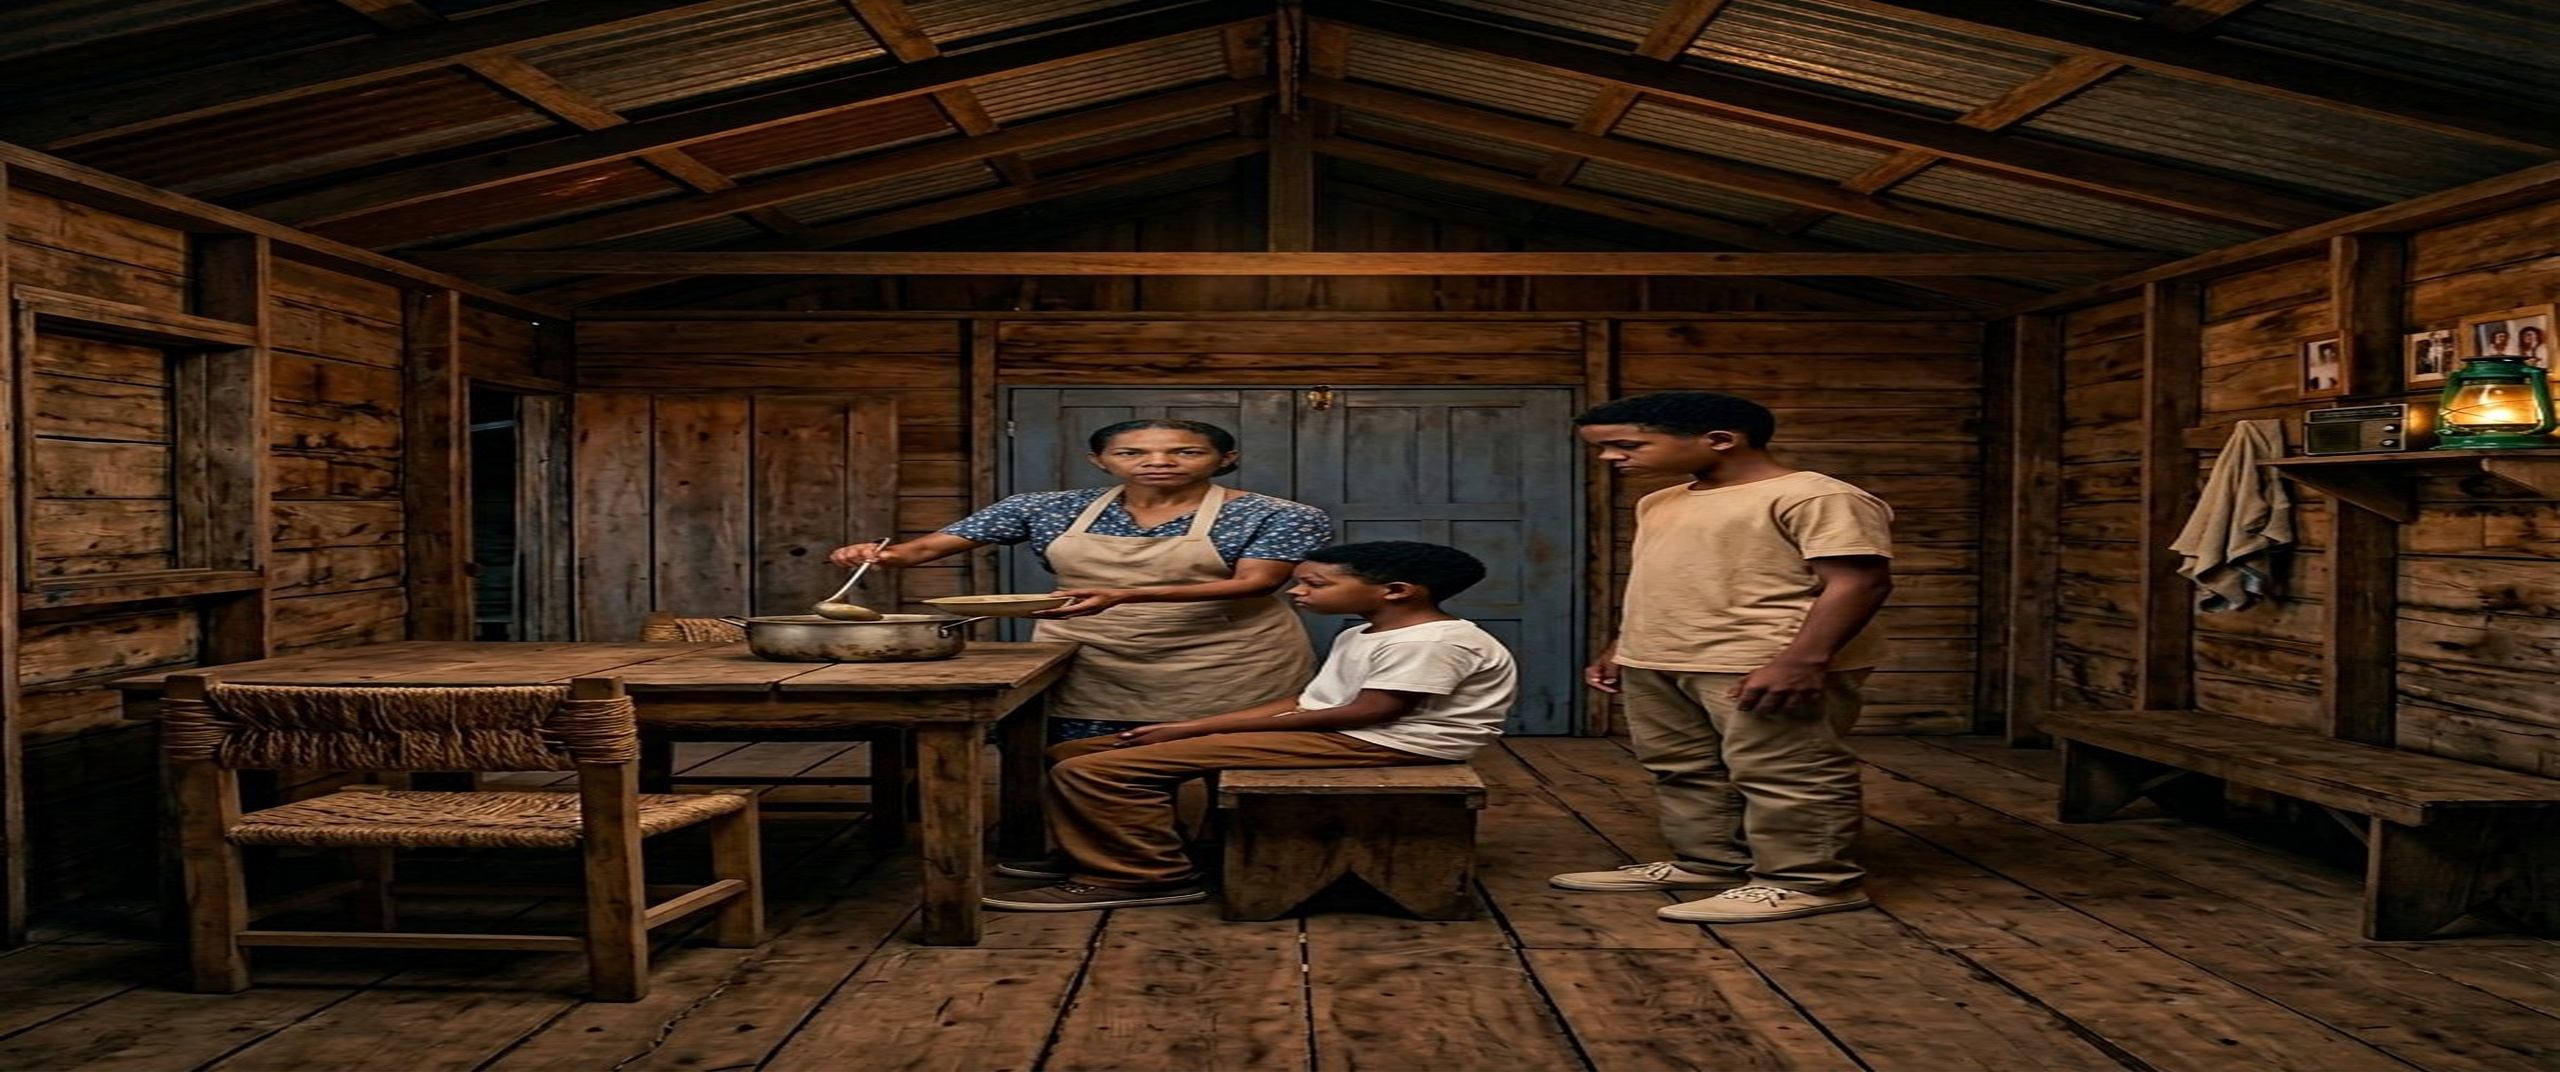
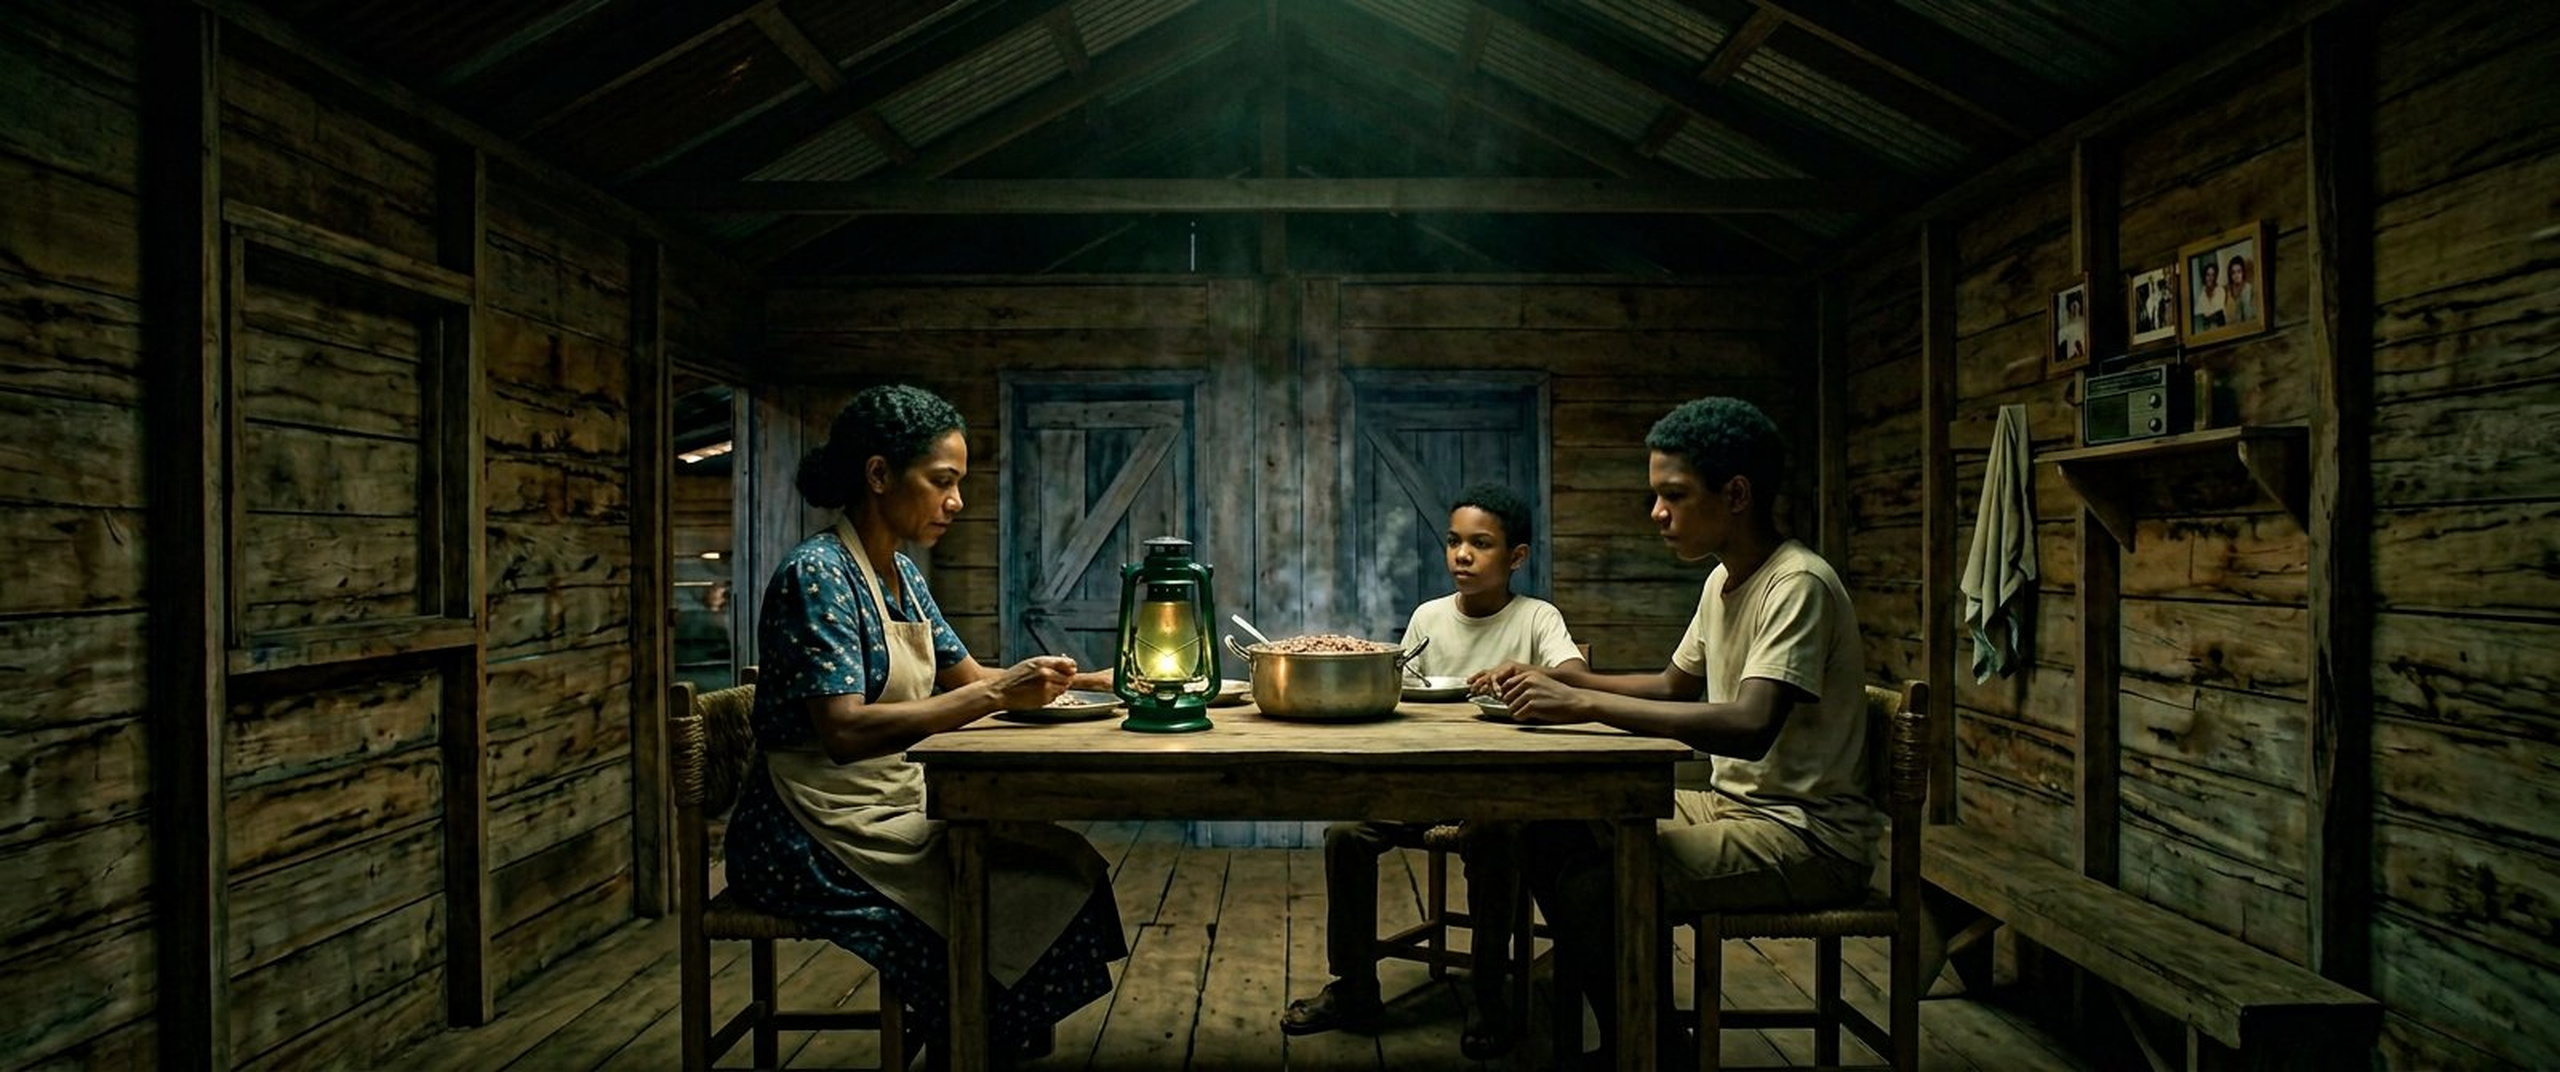
[WILSON][JUANA][MARIO] S06 P06 FINAL LOTE 9 V2 - PARTE TOTAL AL DIRECTOR: hermano 15-16 sandalias + ponchera central + noche queroseno - 2560x1072 - CIERRE 6/6

diff --git a/los_caminos_de_la_vida/01_FOTOGRAFIAS_POR_SECUENCIA/SECUENCIA_06_LA_COMIDA/SECUENCIA_06_PLANOS.md b/los_caminos_de_la_vida/01_FOTOGRAFIAS_POR_SECUENCIA/SECUENCIA_06_LA_COMIDA/SECUENCIA_06_PLANOS.md
@@ -1,47 +1,48 @@
-# SECUENCIA 06 — LA COMIDA · NOCHE EN CASA · REPARACIONES LOTE 3 - BUCLE CONTINUO
-**Director: LEVI - Veredicto LOTE 3: P01/P04/P05 REVISAR, P06 REHACER + 05_SET_CASA_BLOQUEADO + 08_ORDEN_PERMANENTE_DE_BUCLE**
-**Fotógrafos:** WILSON (master 10 aprobado) + JUANA (P01/P04/P06) + YUDERKA (P05) + MARIO (P06 apoyo) - Reparaciones 13-sep
-**Fecha:** 2026-09-13 - Bucle sin parar
+# SECUENCIA 06 — LA COMIDA · NOCHE EN CASA · REPARACIONES LOTE 3 + LOTE 9 FINAL - BUCLE CONTINUO
+**Director: LEVI - Veredicto LOTE 3: P01/P04/P05 REVISAR, P06 REHACER + Veredicto LOTE 9: P06 REVISAR final + 05_SET_CASA_BLOQUEADO + 08_ORDEN_PERMANENTE_DE_BUCLE**
+**Fotógrafos:** WILSON (master 10 aprobado) + JUANA (P01/P04/P06) + YUDERKA (P05) + MARIO (P06 apoyo) - Reparaciones 13-sep + FINAL 14-sep
+**Fecha:** 2026-09-13/14 - Bucle sin parar - CIERRE 6/6
 
-**Set:** sala/comedor master 07 exacto: mesa gruesa izquierda con 2 bancos trenzado, banco bajo derecha, estante derecha con radio antiguo + farol VERDE queroseno + fotos enmarcadas + toalla colgada, puerta central doble azul-gris + vanos oscuros dormitorios (pared fondo EXACTA de P02), ventana rústica izquierda, piso tablas gastadas, techo zinc vigas. Añadidos: ponchera metal centro, platos metal, velador lámpara queroseno verde DOMINANDO encuadre. Luz: SOLO queroseno verde, noche profunda. Vestuario fijo S06: madre vestido azul flores + delantal + moño bajo (no afro) · niño blanco + pantalón LARGO marrón · hermano beige + caqui SIN marca.
+**Set:** sala/comedor master 07 exacto: mesa gruesa izquierda con 2 bancos trenzado, banco bajo derecha, estante derecha con radio antiguo + farol VERDE queroseno + fotos enmarcadas + toalla colgada, puerta central doble azul-gris + vanos oscuros dormitorios (pared fondo EXACTA de P02), ventana rústica izquierda, piso tablas gastadas, techo zinc vigas. Añadidos: ponchera metal centro, platos metal, velador lámpara queroseno verde DOMINANDO encuadre. Luz: SOLO queroseno verde, noche profunda. Vestuario fijo S06: madre vestido azul flores + delantal + moño bajo (no afro) · niño blanco + pantalón LARGO marrón + sandalias · hermano 15-16 beige + caqui SIN marca + sandalias.
 
-## Reparaciones ejecutadas - VEREDICTO LOTE 3
+## Reparaciones ejecutadas - VEREDICTO LOTE 3 + LOTE 9 FINAL
 
-1. **S06_P01_MESA_GENERAL_24MM.jpg** - JUANA/WILSON - REVISAR -> CORREGIDO 13-sep - General 24mm T4.5
-   - Orden Director: pared fondo no coincide P02 (dos puertas azules vs puerta tablas + vano oscuro + puerta azul). Rehacer clonando EXACTAMENTE pared fondo P02.
-   - Corrección: pared fondo ahora idéntica a P02 aprobada: izq a der vano abierto cocina con luz -> puerta tablas azul-gris con Z -> vano oscuro dorm hijos -> puerta azul-gris con Z. Resto set = P02 sin cambios: mesa izq 2 sillas guano, estante der radio+farol VERDE+fotos+toalla+banco bajo, farol verde sobre mesa DOMINANDO, ponchera metal ancha humeante centro, platos metal. Vestuario ley S06, nadie mira cámara, 2560x1072
+1. **S06_P01_MESA_GENERAL_24MM.jpg** - JUANA/WILSON - REVISAR -> CORREGIDO 13-sep -> ✅ APROBADA LOTE 9 - General 24mm T4.5
+   - Orden Director LOTE 3: pared fondo no coincide P02. Rehacer clonando EXACTAMENTE pared fondo P02.
+   - Corrección: pared fondo idéntica a P02 aprobada: vano cocina + puerta Z azul-gris + vano oscuro + puerta Z. En FINAL.
 
-2. **S06_P02_MADRE_SIRVIENDO_50MM.jpg** - JUANA - ✅ APROBADA ya en FINAL - No se toca
+2. **S06_P02_MADRE_SIRVIENDO_50MM.jpg** - JUANA - ✅ APROBADA ya en FINAL
 
-3. **S06_P03_NINO_COMIENDO_85MM.jpg** - JUANA - ✅ APROBADA ya en FINAL - No se toca
+3. **S06_P03_NINO_COMIENDO_85MM.jpg** - JUANA - ✅ APROBADA ya en FINAL
 
-4. **S06_P04_HERMANO_COMIENDO_85MM.jpg** - JUANA - REVISAR -> CORREGIDO 13-sep - 85mm T2.0
-   - Orden: farol estante DORADO, en escena es VERDE. Regenerar con farol verde.
-   - Corrección: farol estante ahora VERDE (mismo verde que lámpara mesa), resto idéntico: hermano sin marca, beige+caqui, sin mirar cámara, 5 dedos, fondo tablas
+4. **S06_P04_HERMANO_COMIENDO_85MM.jpg** - JUANA - REVISAR -> CORREGIDO 13-sep -> ✅ APROBADA LOTE 9 - 85mm T2.0
+   - Orden: farol dorado vs verde. Corregido farol VERDE. En FINAL.
 
-5. **S06_P05_MANOS_CUCHARA_MACRO_100MM.jpg** - YUDERKA - REVISAR -> CORREGIDO 13-sep - Macro 100mm T2.8
-   - Orden: manos persona MAYOR, madre Tiempo A 35-40 manos fuertes pero jóvenes. Regenerar con manos correctas + manga azul flores.
-   - Corrección: manos ahora joven trabajadora 35-40 (venas marcadas pero piel no arrugada anciana), manga azul de flores pequeñas visible, mano niño pequeña 5 dedos, ponchera metal fondo, farol verde glow, mesa madera gruesa, 5 dedos
+5. **S06_P05_MANOS_CUCHARA_MACRO_100MM.jpg** - YUDERKA - REVISAR -> CORREGIDO 13-sep -> ✅ APROBADA LOTE 9 - Macro 100mm
+   - Orden: manos mayor vs joven 35-40 + manga azul flores. Corregido manos joven trabajadora. En FINAL.
 
-6. **S06_P06_PLANO_TRES_MESA_50MM.jpg** - MARIO/JUANA - REHACER -> CORREGIDO 13-sep - 50mm T2.8
-   - Orden Director: salto habitación - paredes encaladas lisas (sala es tablas madera oscura master 07), madre AFRO suelto (debe moño bajo), olla BARRO (es METAL), faroles pared que no existen.
-   - Corrección: REHACER completo clonando sala P02: paredes tablas madera oscura, madre moño bajo negro rizado, ponchera METAL (no barro), sin faroles pared, mesa izq 2 sillas trenzado + banco der, estante der radio+farol verde+fotos+toalla, puerta doble azul-gris + 2 vanos, ventana izq, piso tablas, farol verde mesa dominando, nadie mira cámara, 5 dedos, calor lámpara
+6. **S06_P06_PLANO_TRES_MESA_50MM.jpg** - MARIO/JUANA/WILSON - REHACER LOTE 3 -> CORREGIDO 13-sep -> 🔍 REVISAR LOTE 9 -> CORREGIDO FINAL 14-sep - 50mm T2.8
+   - Orden Director LOTE 3: paredes encaladas vs tablas oscuras master 07, madre afro vs moño bajo, olla barro vs metal, faroles pared inexistentes.
+   - Corrección 13-sep: sala tablas oscuras, moño bajo, olla metal, sin faroles pared.
+   - Orden Director LOTE 9: Mucho mejor pero faltan 3 detalles: (1) hermano se ve ~12 y zapatillas claras -> debe 15-16 y sandalias; (2) falta PONCHERA central mesa (olla en pie raro -> llevar a mesa); (3) luz parece de día -> es NOCHE solo queroseno.
+   - Corrección FINAL 14-sep WILSON: hermano ahora 15-16 alto hombros anchos adolescente, camisa beige + caqui + SANDALIAS marrones (no zapatillas), SIN marca, 5 dedos; ponchera METAL grande humeante al CENTRO de la mesa (arroz habichuelas) con platos metal alrededor, sin pie de madera raro; luz SOLO queroseno verde noche profunda sin luz día, farol verde mesa dominando, sombras cálidas; madre moño bajo + azul flores + delantal; niño blanco + pantalón largo marrón + sandalias marca ceja IZQUIERDA sutil; paredes tablas oscuras master 07 exacto, estante der radio+farol verde+fotos+toalla+banco bajo, puerta doble azul-gris + 2 vanos, ventana izq, piso tablas, techo zinc vigas. Nadie mira cámara, 2560x1072 2.39:1 ARRI Alexa 35 + Cooke, charters clonados.
 
 ## Master 10
-- **10_INTERIOR_DORMITORIO_HIJOS_MASTER_4K.jpg** - WILSON - ✅ APROBADO Y BLOQUEADO 3840x1608 - No se toca
+- **10_INTERIOR_DORMITORIO_HIJOS_MASTER_4K.jpg** - WILSON - ✅ APROBADO Y BLOQUEADO 3840x1608
 
-## Cumplimiento 7 controles + set bloqueado 05
+## Cumplimiento 7 controles + set bloqueado 05 - FINAL
 
-1. Personajes: Madre Tiempo A 35-40 misma cara charter, manos jóvenes trabajadoras (corregido), Niño ceja IZQUIERDA marca (derecha espectador frontal), Hermano sin marca, 5 dedos
-2. Vestuario: Tabla S06 idéntico 6 planos, madre moño bajo (corregido P06), azul flores + delantal
-3. Continuidad: Master 07 clonado exacto - pared fondo P02 exacta (corregido P01), farol verde (corregido P04), ponchera metal (corregido P06), tablas oscuras (corregido P06), sin faroles pared inexistentes
-4. Iluminación: Solo queroseno verde, sin electricidad, sombras coinciden P02, skin tones dominicanos
-5. Dirección actor: Nadie mira cámara, miradas tarea/objeto/otro personaje
-6. Cámara: ARRI Alexa 35 + Cooke, lentes 24/50/85/100 macro, 2.39:1 2560x1072, look cine, sin texto/marcas
-7. Lógica: Cena arroz habichuelas ponchera compartida, día a día real 80s/90s
+1. Personajes: Madre Tiempo A 35-40 misma cara charter MADRE_TIEMPO_A_RECUERDOS_CHARTER_OFICIAL_6K, manos jóvenes trabajadoras, Niño ceja IZQUIERDA marca derecha espectador frontal charter PROTAGONISTA_NINO_CHARTER_OFICIAL_6K, Hermano 15-16 SIN marca charter HERMANO_TIEMPO_A_ADOLESCENTE, 5 dedos
+2. Vestuario: Tabla S06 idéntico 6 planos, madre moño bajo azul flores + delantal, niño blanco + pantalón largo marrón + sandalias, hermano beige + caqui + sandalias
+3. Continuidad: Master 07 clonado exacto - pared fondo P02 exacta, farol verde, ponchera metal centro mesa (no olla pie), tablas oscuras, sin faroles pared, puerta doble azul-gris + 2 vanos, estante der radio+farol verde+fotos+toalla+banco bajo
+4. Iluminación: Solo queroseno verde noche profunda, sin luz día, sin electricidad, sombras coinciden P02, skin tones dominicanos
+5. Dirección actor: Nadie mira cámara, miradas tarea/ponchera/otro personaje
+6. Cámara: ARRI Alexa 35 + Cooke, lentes 24/50/85/100 macro/50, 2.39:1 2560x1072, look cine grano fino, sin texto/marcas
+7. Lógica: Cena arroz habichuelas ponchera compartida centro mesa, día a día real 80s/90s
 
 ## Firma reparaciones
 [2026-09-13] JUANA | S06 P01 pared fondo exacta P02 + P04 farol verde | REVISAR LOTE 3 corregido | Pendiente veredicto
 [2026-09-13] YUDERKA | S06 P05 manos joven trabajadora manga azul flores | REVISAR LOTE 3 corregido | Pendiente veredicto
 [2026-09-13] MARIO | S06 P06 REHACER completo sala tablas moño bajo olla metal sin faroles pared | REHACER LOTE 3 corregido | Pendiente veredicto
 [2026-09-13] WILSON | S06 reparaciones publicadas como equipo + S11 P01/P05 + S09 extras | Bucle continuo TAREA B/C completadas | Pendiente veredicto S06/S08/S09/S11
+[2026-09-14] WILSON | S06 P06 FINAL LOTE 9: hermano 15-16 sandalias + ponchera central + noche queroseno | 3 detalles LOTE 9 corregidos, charters clonados, 2560x1072 | CIERRE S06 6/6 pendiente veredicto FINAL

diff --git a/los_caminos_de_la_vida/02_DIRECCION/REGISTRO_DE_AGENTES.md b/los_caminos_de_la_vida/02_DIRECCION/REGISTRO_DE_AGENTES.md
@@ -75,3 +75,4 @@ Formato: `[FECHA] ID-AGENTE | SECUENCIA/ARCHIVOS | qué hizo | pendiente`
 | 2026-09-11 | `WILSON` | **CADENA 09 — tarea C, S09 EXTRAS TECHO ATARDECER:** añadidas dos alternativas nuevas, `S09_EXTRA_TECHO_ATARDECER_35MM_WILSON.jpg` (35 mm) y `S09_EXTRA_TECHO_ATARDECER_50MM_WILSON.jpg` (50 mm), ambas 3840×1608. Protagonista adulto Tiempo B, chárter oficial: camisa verde oliva sobre crema, jeans índigo, botas marrones y marca de ceja izquierda; repara desde la cubierta de zinc oxidado de la única casa familiar, con herramienta de mango de madera y lámina recuperada. Atardecer dominicano, mango y campo; sin electricidad, sin casas vecinas ni objetos modernos. | Veredicto de LEVI sobre las dos alternativas de S09; cola WILSON A/B/C completada. |
 | 2026-09-13 | `AGENTE_H_S10` | **CADENA 09 cumplida: Luis CHARTER V2 toca la puerta de la casa de la madre + Luis sentado en el conuco al atardecer.** 6 tomas en `SECUENCIA_10_PERFORMANCE_LUIS/`: EX13 general toca puerta 24mm · EX14 medio galería/puerta 50mm · EX15 sentado conuco atardecer 35mm · EX16 canto sentado 50mm · EX17 rostro 85mm · EX18 paisaje conuco 24mm + `SECUENCIA_10_EXTRAS_CADENA_PUERTA_CONUCO.md`. Casa clonada del master 01; conuco de S03_P01. Negro total, modo película, 3840×1608 2.39:1, nadie mira cámara. Cadena H marcada cumplida en `09_CADENA_DE_TRABAJO.md`. Nada borrado. | Veredicto Director sobre EX13–EX18 (y EX01–EX12 aún en radar) |
 | 2026-09-11 | `WILSON` | **PARTE TOTAL AL DIRECTOR — ENTREGA DE TODO LO PUBLICADO DESDE ESTE CHAT:** (1) `00_continuidad/03B_PROTAGONISTA_ADOLESCENTE/PROTAGONISTA_ADOLESCENTE_CHARTER_OFICIAL.jpg`, pliego 7 vistas 6144×3456, aprobado/bloqueado como puente niño→adulto; (2) `SECUENCIA_03_CONUCO/S03_P05_MANOS_YUCA_TIERRA_MACRO_100MM_V3_WILSON.jpg`, 3840×1608, reparación sin delantal; (3) `SECUENCIA_09_PRESENTE/S09_EXTRA_TECHO_ATARDECER_35MM_WILSON.jpg`; (4) `SECUENCIA_09_PRESENTE/S09_EXTRA_TECHO_ATARDECER_50MM_WILSON.jpg`, ambas 3840×1608, alternativas del hijo adulto reparando el techo. Todos siguen íntegros en el repo y quedan a su veredicto. Las pruebas locales de S06 no publicadas fueron descartadas al quedar superadas por el set y las fotos oficiales; no se duplican ni se presentan como entrega. | Director LEVI: inventario completo de aportes WILSON de este chat para revisión. |
+| 2026-09-14 | WILSON | SECUENCIA_06 LA COMIDA - P06 FINAL LOTE 9 V2: `S06_P06_PLANO_TRES_MESA_50MM.jpg` 776K 2560x1072 - hermano 15-16 sandalias, ponchera metal central, noche solo queroseno verde - Charter MADRE_A + NINO + HERMANO_A + master 07 - CIERRE 6/6 | Veredicto FINAL Director S06 - PARTE TOTAL |
